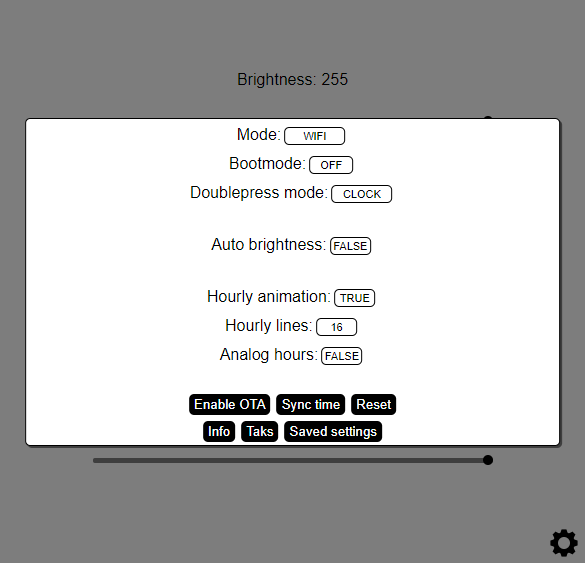
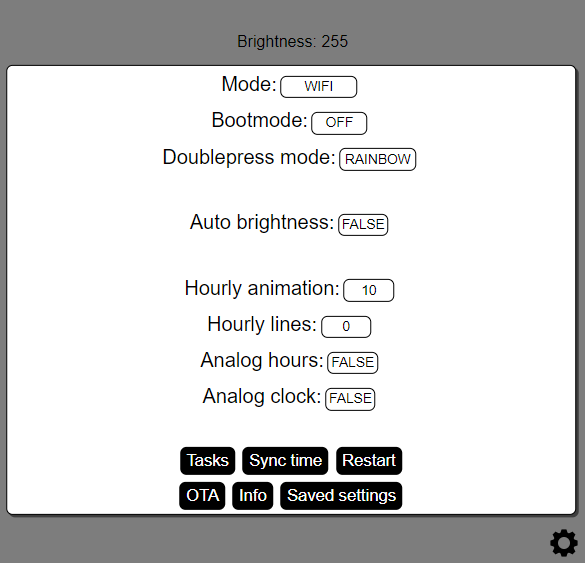
#30 added 2 more task options

diff --git a/Arduino/Task.h b/Arduino/Task.h
@@ -15,8 +15,8 @@
 #define TaskLimit 16        //defined as an byte in for loops, so 255 at max
 //#define Task_SerialEnabled
 #define EEPROMSaveDelayMS 30000   //Save to EEPROM in X ms
-enum {NONE, SWITCHMODE, DIMMING, BRIGHTEN, RESETESP, CHANGERGB, SAVEEEPROM, SYNCTIME}; //Just to make the code easier to read
-String TaskString[] = {"NONE", "SWITCHMODE", "DIMMING", "BRIGHTEN", "RESETESP", "CHANGERGB", "SAVEEEPROM", "SYNCTIME"}; //ALL CAPS!
+enum {NONE, SWITCHMODE, DIMMING, BRIGHTEN, RESETESP, CHANGERGB, SAVEEEPROM, SYNCTIME, AUTOBRIGHTNESS, HOURLYANIMATIONS}; //Just to make the code easier to read
+String TaskString[] = {"NONE", "SWITCHMODE", "DIMMING", "BRIGHTEN", "RESETESP", "CHANGERGB", "SAVEEEPROM", "SYNCTIME", "AUTOBRIGHTNESS", "HOURLYANIMATIONS"}; //ALL CAPS!
 
 const byte Task_Amount = sizeof(ModesString) / sizeof(ModesString[0]); //Why filling this in if we can automate that? :)
 
@@ -133,6 +133,12 @@ bool DoTask(TASK Item) {
         if (!UpdateTime())                        //Get a new sync timestamp from the server
           WiFiManager_Connected = false;
       } break;
+    case AUTOBRIGHTNESS: {
+        AutoBrightness = IsTrue(Item.Var);
+      } break;
+    case HOURLYANIMATIONS: {
+        HourlyAnimationS = constrain(Item.Var.toInt(), 0, 255);
+      } break;
     default:
       returnValue = false;
       break;
@@ -159,12 +165,17 @@ String VarCompress(byte ID, String IN) {
         return "";                                //We do not use it, clear it so save space
       } break;
     //CHANGERGB
-    //CHANGERGB
     case SAVEEEPROM: {
         return "";                                //We do not use it, clear it so save space
       } break;
     case SYNCTIME: {
         return "";                                //We do not use it, clear it so save space
+      } break;
+    case AUTOBRIGHTNESS: {
+        return String(IsTrue(IN));
+      } break;
+    case HOURLYANIMATIONS: {
+        return String(constrain(IN.toInt(), 0, 255));
       } break;
   }
   return IN;
@@ -178,9 +189,15 @@ String VarDecompress(byte ID, String IN) {
     case SWITCHMODE: {
         return ConvertModeToString(IN.toInt());
       } break;
+    case AUTOBRIGHTNESS: {
+        return IsTrueToString(IN);
+      } break;
   }
   return IN;
 }
+//==============================
+//End of user variables
+//==============================
 String ConvertTaskIDToString(byte IN) {
 #ifdef Convert_SerialEnabled
   Serial.println("CV: ConvertTaskToString '" + String(IN) + "'");

diff --git a/README.md b/README.md
@@ -129,6 +129,7 @@ Note that the character " and TAB (EEPROM_Seperator) can not be used, these will
 - **PotStick** If this close to HIGH or LOW stick to it.
 - **PotMin** On how much pot_value_change need to change, to set mode to manual.
 - **Name** The mDNS, WIFI APmode SSID, and OTA name of the device. This requires a restart to apply, can only be 16 characters long, and special characters are not recommended.
+- **Task#** 8 tasks (0-7), the format is described in [task-list](#task-list)
 
 ### Clock mode
 For the use of clock mode the right time zone needs to be set up, these are stored in gmtOffset_sec and daylightOffset_sec (Default to Amsterdam time). 
@@ -140,18 +141,19 @@ Also the clock can be manual updated with [smart-clock.local/time?h=3&m=59&s=50]
 Furthermore the clock has some softsettings like ClockHourLines, but these are descibed in [Soft settings](#soft-settings)
 
 ### Task List
+<img align="right" src="Images/Tasks.png" alt="Tasks page" width=50%>
 This page can be accesed on by opening the settings menu and clicking on the button 'Tasks'
 There can be 16 tasks, and the first 8 will be saved to EEPROM and will be restored after boot. 
 By default the SYNCTIME had been added at 4:0:0
 
-The layout of Tasks in this list is as follows
-- I, the number in the list (0-15) assigned automatically
-- Time, 3x in the format of HH:MM:SS (x)(y)(z) |OR| time in ms to execute (w)
-- ID, the type of task and automatically convered to show the name. (TaskString in Task.h)
+The format of Tasks "TimeH,TimeM,TimeS,TaskType,Var"
+- I, the number in the list (0-15) assigned automatically 
+- Time, 3x in the format of HH:MM:SS "x,y,z" |OR| time in ms to execute "w" (w are not saved in EEPROM)
+- TaskType, the type of task and automatically convered to show the name. (see TaskString in Task.h)
 - Var, this can be a custom variable (few examples are given below)
 
-Some examples of ID and Var:
-	ID (x but converted to name) - Var (x but can be converted to name)
+Some examples of TaskType and Var:
+	TaskType (x but converted to name) - Var (x but can be converted to name)
 	1. SWITCHMODE - New mode to switch to "x" either in string or ID form 
 	2. DIMMING - Stepsize,GoTo,TimeInterfall in ms "x,y,z"
 	3. BRIGHTEN - Stepsize,GoTo,TimeInterfall in ms "x,y,z"
@@ -159,6 +161,8 @@ Some examples of ID and Var:
 	5. CHANGERGB - Red,Green,Blue,OPT_Brightness "x,y,z" |OR| "x,y,z,w"
 	6. SAVEEEPROM
 	7. SYNCTIME
+	8. AUTOBRIGHTNESS - True/false "x" either in string or ID form 
+	9. HOURLYANIMATIONS - Time in seconds for the animation "x" 
 
 ### OTA (Over The Air update)
 This page can be accesed on [smart-clock.local/ota](http://smart-clock.local/ota)
@@ -178,11 +182,11 @@ Follow the following steps to setup the lamp, stop after the first step if you d
 
 # Specifications 
 ## Input voltage
-The power supply is either 5V or 12V. The difference in the voltage is the used LED strip. If the WS2812B (older model) is used it would need to be 5V, but if the WS2815 are used then 12V is required. The newer model WS2815 with redundant data lines is 12V. 
+The power supply is either 5V or 12V. The difference in the voltage is the used LED strip. If the WS2812B is used it would need to be 5V, but if the WS2815 (with redundant data lines) is used then 12V is required.
 
 <img align="right" src="Images/positive polarity.png" alt="positive polarity">
 
-The pinout of the DC jack has by default positive polarity. Meaning the outer tube, as shown in the figure right, is the ground connection. The lamp will fail to work otherwise (but is able to handle the shock).
+The pinout of the DC jack has by default positive polarity. Meaning the outer tube -as shown in the figure right- is the ground connection. The lamp will fail to work otherwise (but is able to handle the shock).
 ## Power consumption
 The lamp will consume 18Watts at maximum, so as an example for 12V a 1.5A (or 5V at 3.6A) power supply is required to allow full brightness. Although actual measurements came closer to 12Watt.
 
